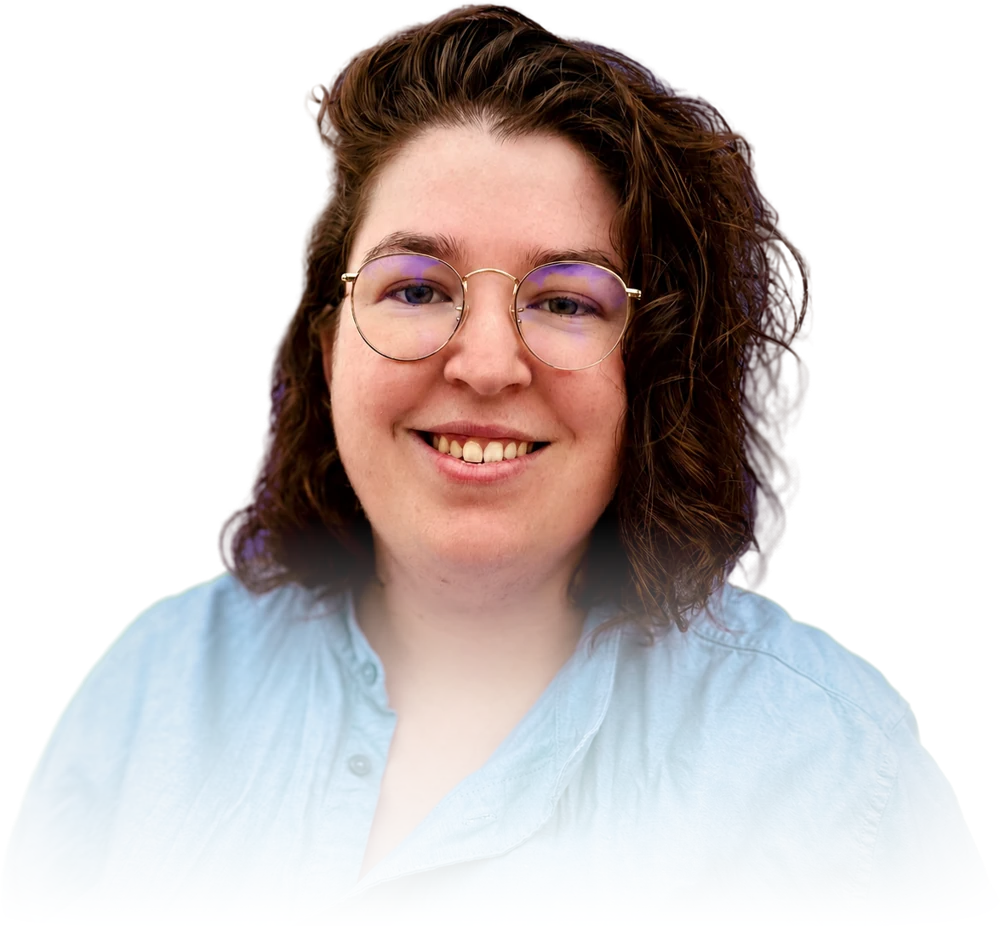
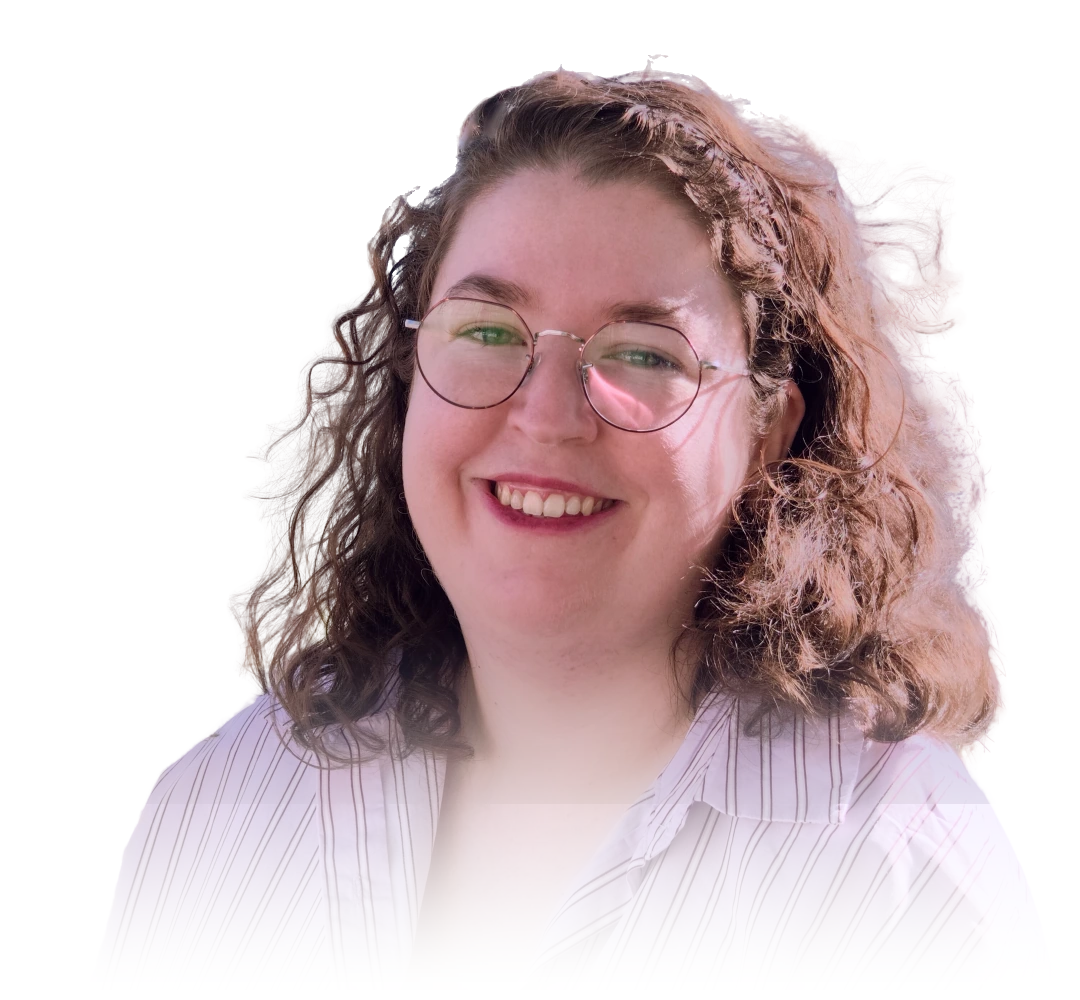
Remplace les photos de l'accueil et du bento par celles du shooting de novembre
Accueil : nouvelle photo détourée, en lumière rosée accordée au halo, cadrée sur le buste avec le fondu plus bas.
Bento : photo souriante devant l'ordinateur, texte alternatif mis à jour.

diff --git a/components/sections/About.tsx b/components/sections/About.tsx
@@ -20,7 +20,7 @@ export function About() {
           <div className="relative min-h-[380px] overflow-hidden rounded-3xl md:row-span-2">
             <Image
               src={photo}
-              alt="Laura Fontaine concentrée devant son ordinateur"
+              alt="Laura Fontaine souriante devant son ordinateur"
               fill
               sizes="(min-width: 900px) 300px, 100vw"
               className="object-cover object-[60%_30%] [filter:grayscale(1)_contrast(1.25)_brightness(1.1)]"
